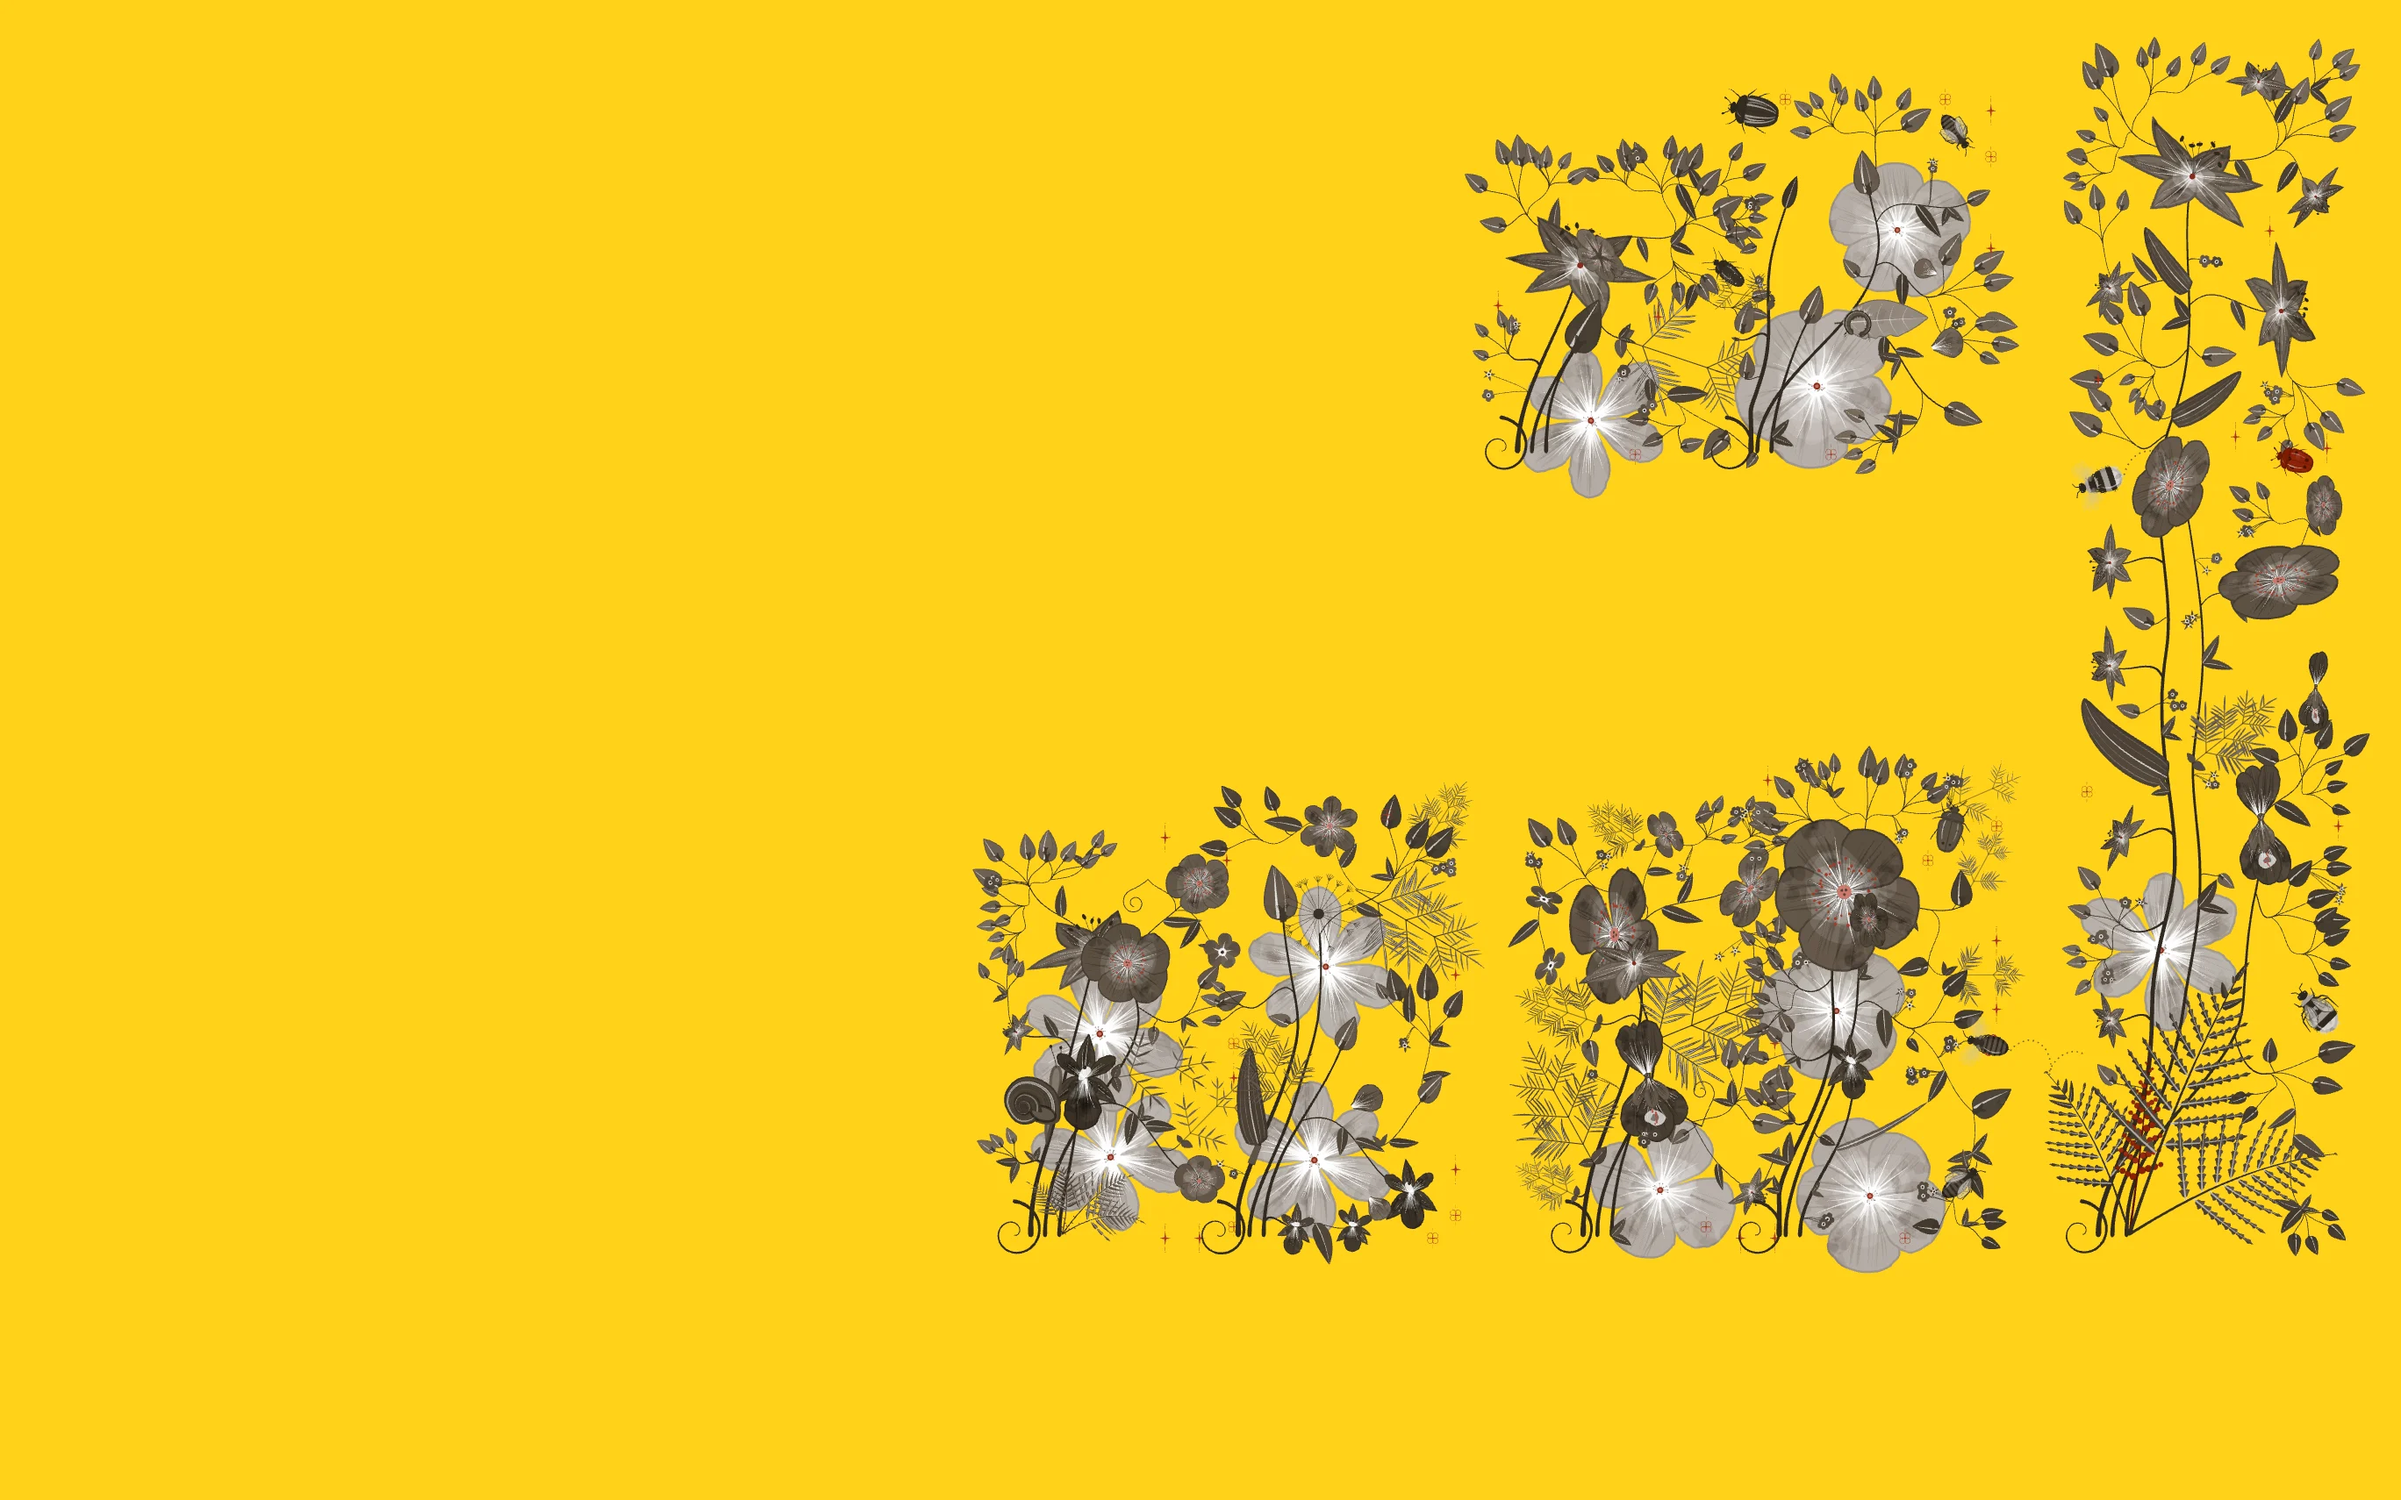
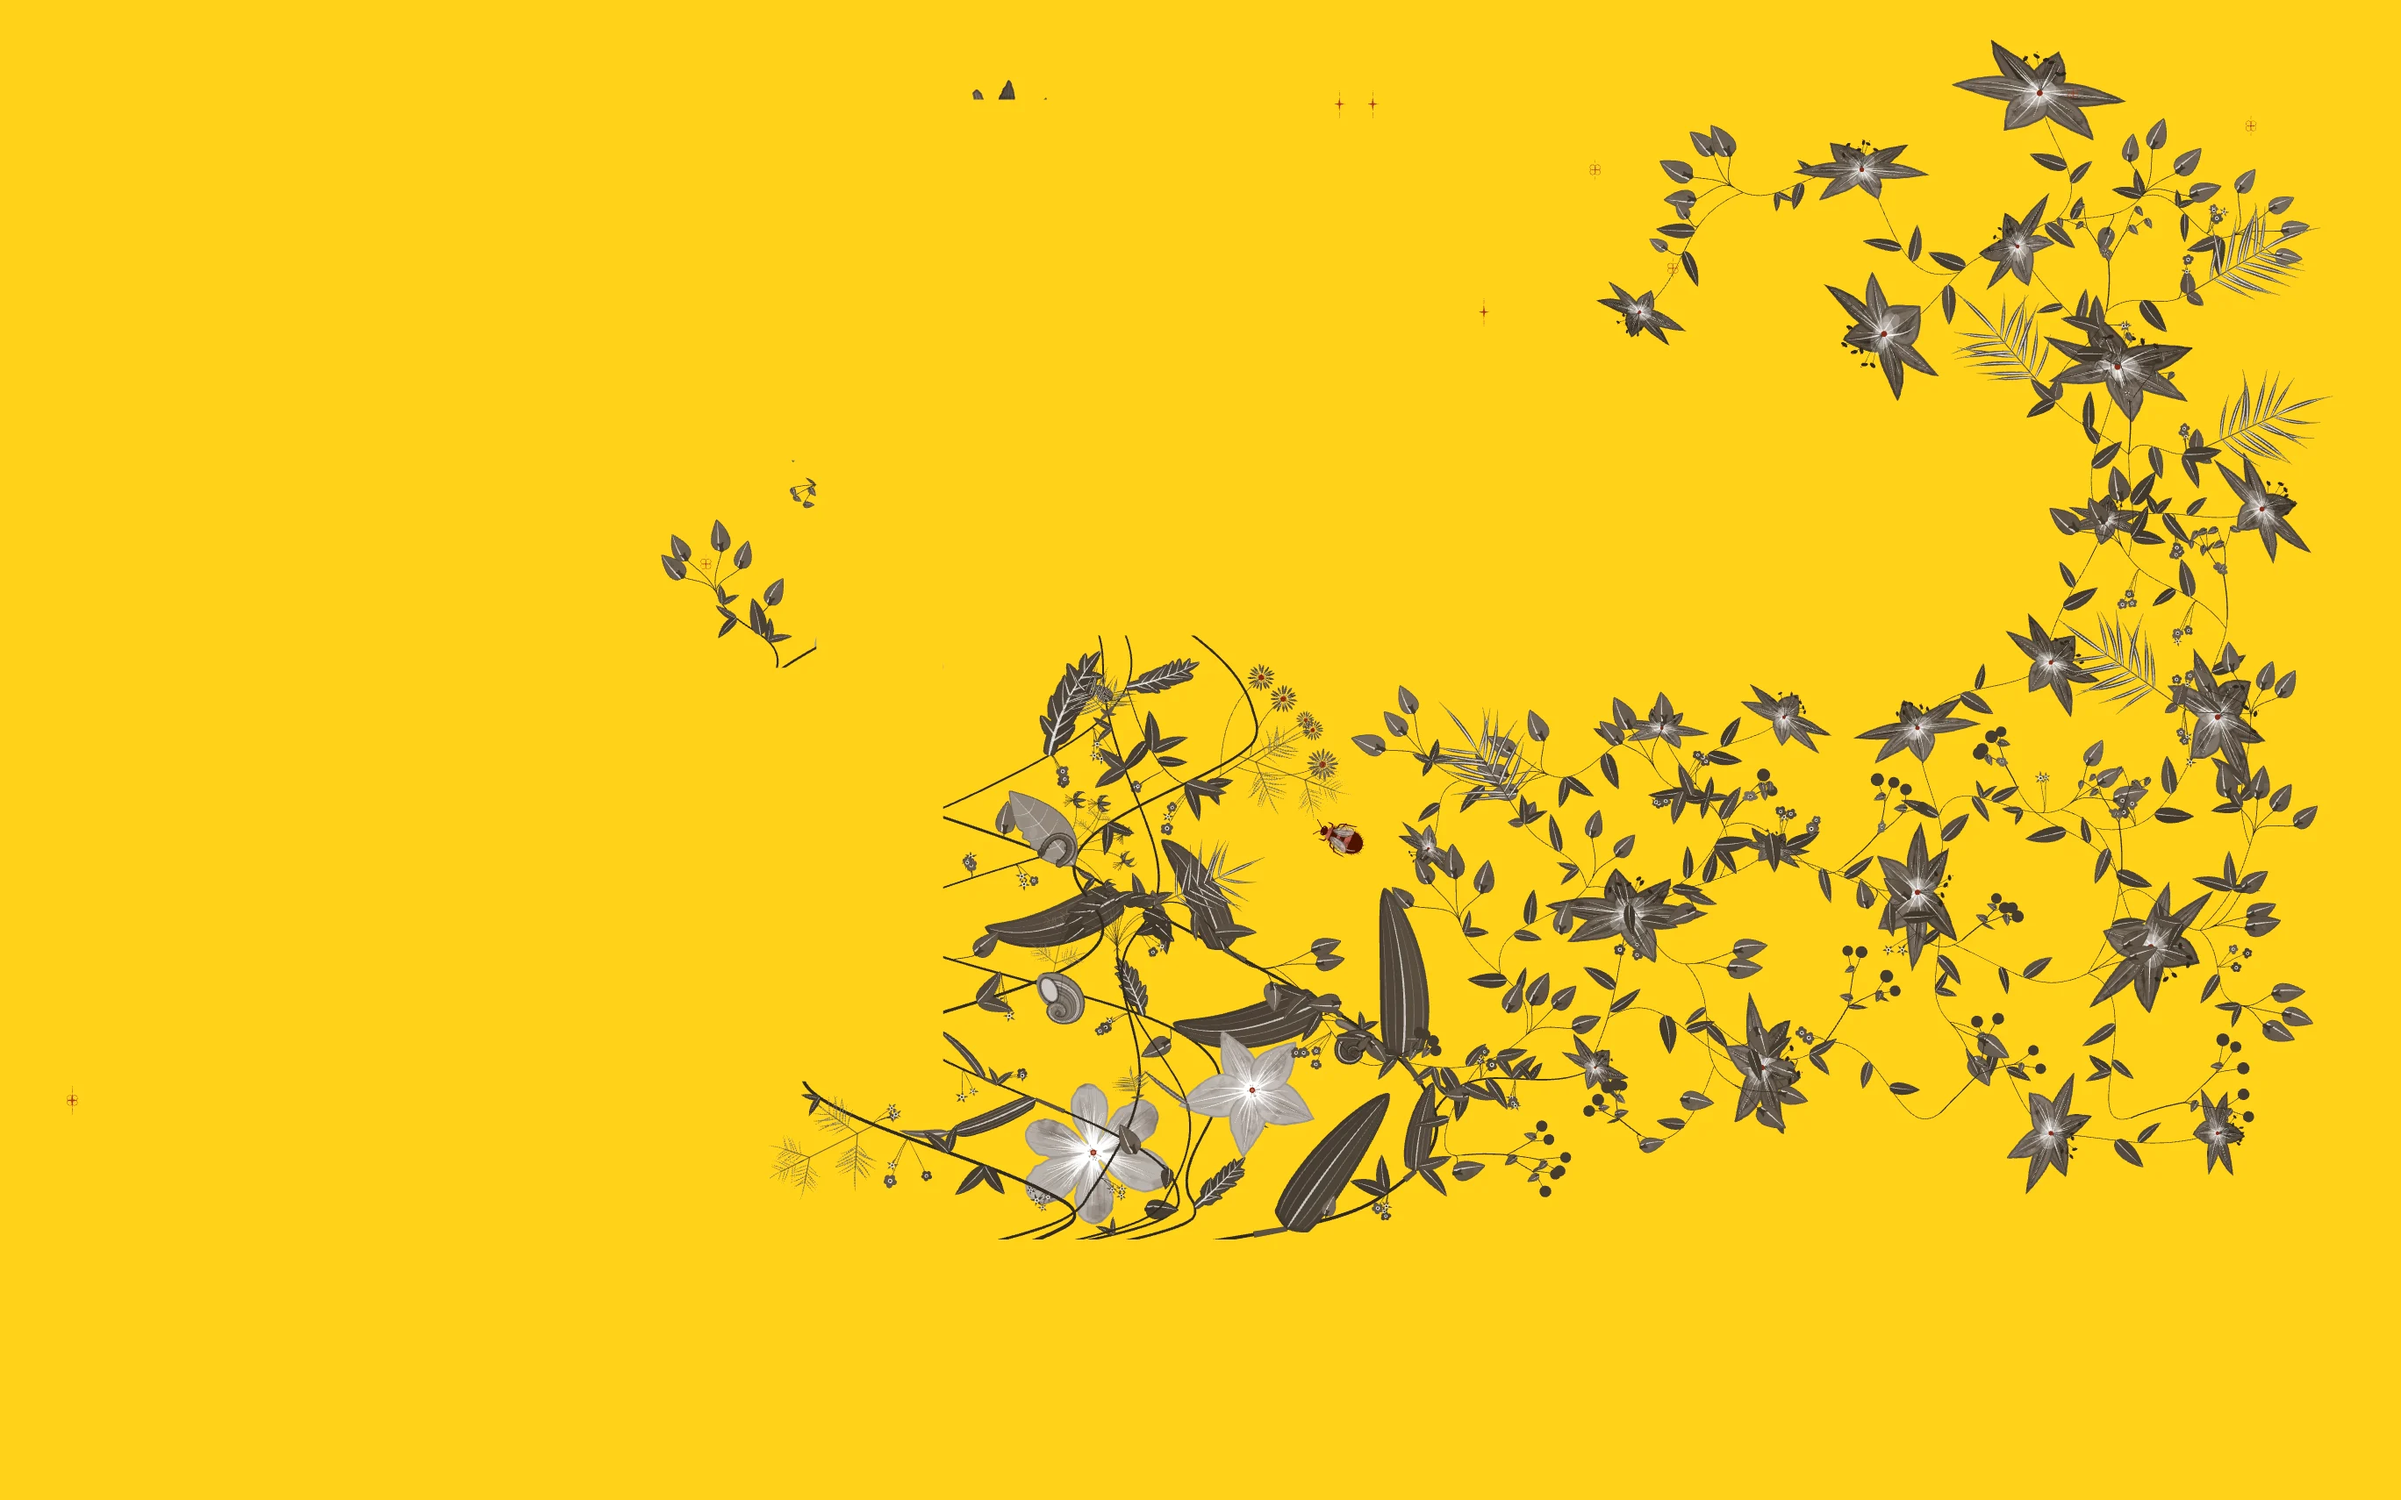
Header: staircase title; horse frieze runs along the P's inner edge; herd leads from the left; one continuous wild garden from a richer steppe flora (18 species, each garden its own eight), two layers
Claude-Session: https://claude.ai/code/session_019R7gPpA5XMnJ1Z11oENPQt

Changed region(s): [[0.3107, 0.031, 0.9942, 0.8678], [0.2796, 0.3409, 0.3417, 0.4339], [0.3107, 0.3099, 0.3417, 0.3409]]

diff --git a/css/main.css b/css/main.css
@@ -53,7 +53,7 @@ button { font: inherit; color: inherit; }
 .hero-title { position: absolute; left: var(--gut); top: clamp(40px, 7vh, 90px); display: flex; align-items: stretch; gap: .8vw; z-index: 2; }
 .hero-cap { flex: none; aspect-ratio: 1; }
 .hero-cap initialis-cap, .hero-cap canvas { display: block; width: 100%; height: 100%; }
-.open-h { margin: 0; font-family: var(--f-display); font-weight: var(--w-display); font-variation-settings: var(--v-display); font-size: clamp(46px, 8.6vw, 170px); line-height: .86; letter-spacing: -.035em; }
+.open-h { margin: 0; font-family: var(--f-display); font-weight: var(--w-display); font-variation-settings: var(--v-display); font-size: clamp(42px, 7.6vw, 150px); line-height: .86; letter-spacing: -.035em; }
 .open-h .line { display: block; width: fit-content; padding: .02em .32em .08em .22em; margin-bottom: 0; background-size: 100% 100%; background-repeat: no-repeat; }
 .open-h .line:first-child { padding-left: .1em; }
 .open-p { position: absolute; left: calc(var(--gut) + 1vw); z-index: 2; max-width: 58ch; margin: 0; padding: 1.2em 1.7em 1.3em 1.5em;
@@ -235,3 +235,6 @@ body::after { content: ""; position: fixed; inset: 0; z-index: 40; pointer-event
 /* no rules or outlines anywhere */
 .tier, .tier:last-child, .apps, .app, .leaf .rh, .leaf .e, .voices, .tr textarea { border: 0 !important; }
 .tr textarea { background: color-mix(in srgb, var(--chalk) 8%, transparent); padding: 10px 14px; }
+/* the title as a staircase */
+.open-h .line:nth-child(2) { margin-left: .55em; }
+.open-h .line:nth-child(3) { margin-left: 1.1em; }

diff --git a/js/kinds/steppe.js b/js/kinds/steppe.js
@@ -62,12 +62,12 @@ const TAU = Math.PI * 2;
 export default [
   {
     family: 'band', name: 'horses',
-    // a procession round the frame: every horse upright and inside the band, walking clockwise
-    // (left to right along the top, right to left along the bottom, facing the way the band runs on the sides)
+    // a procession round the frame along its inner edge: each horse turned to the band's direction, its hooves on
+    // the inner rule (so the bottom run is upside down, as on a carved border read by turning the panel)
     draw({ out, along, w }) {
       for (const p of along(w * 1.5)) {
-        const dx = Math.cos(p.a), h = w * 0.78;
-        out.polys.push(horse(p.x, p.y + h * 0.5, h, 0, dx < -0.3 || (Math.abs(dx) <= 0.3 && Math.sin(p.a) < 0)));
+        const nx = -Math.sin(p.a), ny = Math.cos(p.a), h = w * 0.78;
+        out.polys.push(horse(p.x + nx * w * 0.44, p.y + ny * w * 0.44, h, p.a));
       }
     },
   },

diff --git a/js/main.js b/js/main.js
@@ -64,7 +64,7 @@ async function overture() {
     const c = document.createElement('canvas'), w = 260, h = w * ar; c.width = w * 2.4; c.height = h * 2.4; const g = c.getContext('2d'); g.scale(2, 2);
     paintSilhouette(g, m, w * .1, h * .1, w, h, { ...pal, seed: 9, density: 1.3, mane: [.6, .84] }); frames.push(c);
   }
-  const herd = [{ x: .08, ph: 0, s: 1 }, { x: .32, ph: 4, s: .86 }, { x: .55, ph: 7, s: .94 }, { x: .8, ph: 2, s: .8 }];
+  const herd = [{ x: .1, ph: 0, s: 1 }, { x: .36, ph: 4, s: .86 }, { x: .62, ph: 7, s: .94 }, { x: .88, ph: 2, s: .8 }];   // the lead horse starts on the left edge
   let t0 = 0;
   const run = t => {
     const { ctx, w, h } = cv._fit || (cv._fit = fit(cv));
